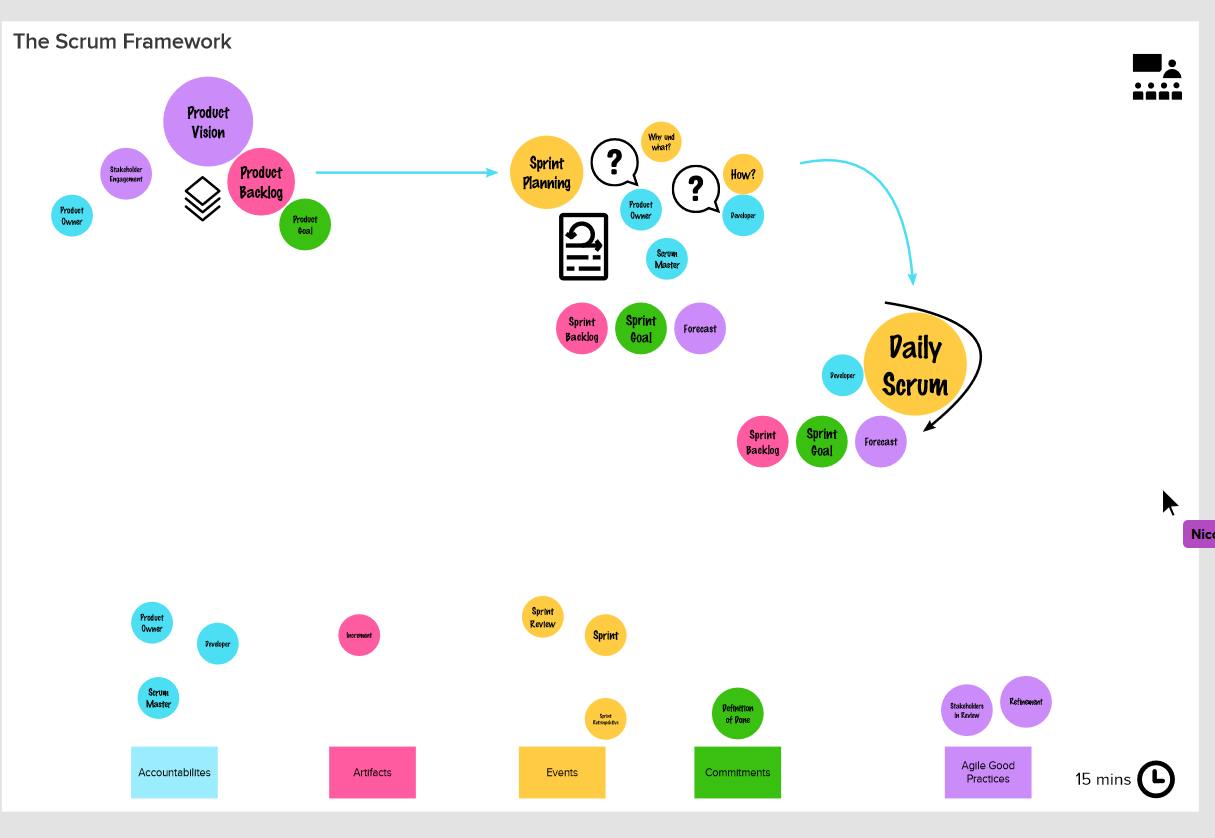
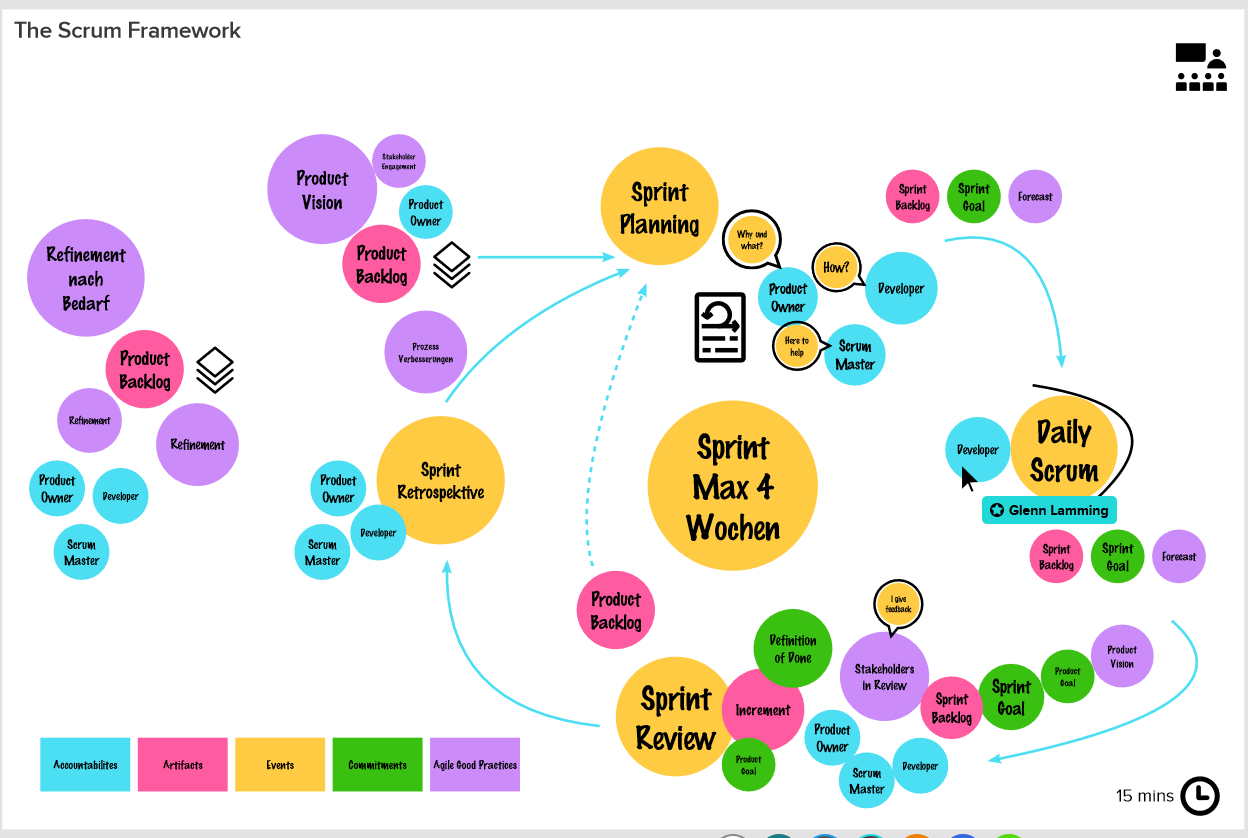
PSPO: day 1 continued; the scrum framework

diff --git a/BeenThereSeenThat/202103_PSPO_Scrum_Seminar/README.md b/BeenThereSeenThat/202103_PSPO_Scrum_Seminar/README.md
@@ -80,13 +80,13 @@
 * in product backlog kann es mehr als für product goal braucht, geben
 * ziel einer sprint iteration: welchen value will man zu dem product hinzufügen?
 
-### task: Visualisierung von SCRUM schaffen (um jemenaden, der scrum nicht kennt, es zu erklären)
+### task 45: Visualisierung von SCRUM schaffen (um jemenaden, der scrum nicht kennt, es zu erklären)
 * wie spielen SM, PO und Devs zusammen?
 ![](screen03.png)
 ![](screen04.png)
 
-* scrum framework als produktentwicklung
-* PO hat entweder Eigenidee für produkt oder jemand anders hat die Idee (Vision)
+* scrum framework als Produktentwicklung
+* PO hat entweder Eigenidee für Produkt oder jemand anders hat die Idee (Vision)
 * solange das Produkt lebt, lebt auch das Backlog (und entwickelt sich weiter)
 * zu Beginn kein Anspruch auf Vollständigkeit
 * Product backlog bietet als Möglichkeit einen Fokus
@@ -98,7 +98,36 @@
 * durch Scrum innere Konflikte aufgelöst: weil es mehrere Personen gibt
 * daily scrum: developer nehmen teil
 * ![](screen05.png)
-* 
+[break] 
+
+Links zu virtuellen Whiteboards:
+* <https://www.boardle.io/boards>
+* <https://app.mural.co/template/a7827f2d-4584-4afe-9001-55e83efc13dd/8b74b81c-adde-4dc1-be91-cdfe31f5560b>
+
+* Wer nimmt an Sprint Reviews teil? Stakeholder und gesamtes Sprintteam
+* man darf jeden sprint release, muss aber nicht
+* Anspruch haben etwas brauchbares zu entwickeln, mit Qualitätsanspruch, _Wert_ für Kunden erzeugen (Deployment-Pipeline kann ihren Wert beweisen durch Zeigen einer Loginseite für das Produkt)
+* Was wenn ein Item nicht die DoD erreicht? DoD ist Eintrittskarte für das Increment ins Review zu kommen
+* Increment ist immer _integrativ_; wenn man nicht den Qualitätsanspruch erreicht hat, dann kommt es nicht in Review
+* falls man etwa nicht "fertig" hat, dann es nicht in review packt, dann ist das Review intransparent. Weiterführung im nächsten Sprint verringert dort die Kapa, man lügt sich in die eigene Tasche, nächster Sprint langsamer, und man baut an dem qualitativ nicht sauberen Teil weiter.
+* deshalb unfertige Sachen nicht in Review packen; ehrliche Inspektion des aktuellen Standes
+* aus review wird das product backlog aufgearbeitet
+* falls man lange reviews verschiebt, dann gibt es überraschungen (nach drie monatne)
+* man macht scrum um produktentwicklung in einer komplexen welt zu betreiben
+* mechanismus um das risiko zu kontrollieren
+* sprintlänge: 2 wochen usus; aber eigentlich frage "wieviel risiko ist man bereit in kauf zu nehmen"?; je weniger risiko, desto weniger die sprintlänge - das ist etwas gutes, wenn man dies möglichst schnell feststellt
+* kürzere zyklen zu haben, shorter time to product
+* aufs extreme getrieben: lieber in einer Woche als in einem Monat (den stand herausfinden)
+* Trennung von Produkt und Prozess
+* retro: früher mindestens eine Prozessverbesserung pro Sprint, derzeit "kann"
+* refinement: backlog immer gut gepflegt (was bedeutet 'gut'? transparent und sortiert); wann betreibt man eigentlich refinement? immer wenn man muss
+* "Plans Are Worthless, But Planning Is Everything"
+* falls man prozessorientiert unterwegs ist, muss man auf dieser agilen Reise etwas loslassen
+* Scrum Schulungen als transformational, nicht esoterisch; neue Denkprozesse annehmen
+[break until 1300]
+
+
+
 
 
 
